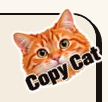
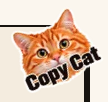
Refine Copy Cat overflow and border and repair copied-state checks

diff --git a/src/groups/copy/copy-read.test.ts b/src/groups/copy/copy-read.test.ts
@@ -21,11 +21,12 @@ function client(
   query.select.mockReturnValue(query);
   query.eq.mockReturnValue(query);
   const from = vi.fn().mockReturnValue(query);
+  const getUser = vi.fn().mockResolvedValue({ data: { user } });
   vi.mocked(createSupabaseServerClient).mockResolvedValue({
-    auth: { getUser: vi.fn().mockResolvedValue({ data: { user } }) },
+    auth: { getUser },
     from,
   } as never);
-  return { from, query };
+  return { from, query, getUser };
 }
 describe("loadOwnCopiedItemIds", () => {
   it("reads only the authenticated owner's copies of already-authorized source items", async () => {
@@ -51,5 +52,63 @@ describe("loadOwnCopiedItemIds", () => {
     const { from } = client({ id: "viewer" });
     expect(await loadOwnCopiedItemIds([])).toEqual(new Set());
     expect(from).not.toHaveBeenCalled();
+  });
+  it("batches unique authorized IDs into bounded requests and authenticates once", async () => {
+    const ids = Array.from(
+      { length: 101 },
+      (_, index) =>
+        `00000000-0000-4000-8000-${String(index).padStart(12, "0")}`,
+    );
+    const { query, getUser } = client({ id: "viewer" });
+    query.in
+      .mockResolvedValueOnce({
+        data: [{ copied_from_item_id: ids[0] }],
+        error: null,
+      })
+      .mockResolvedValueOnce({
+        data: [{ copied_from_item_id: ids[100] }],
+        error: null,
+      });
+    expect(await loadOwnCopiedItemIds([...ids, ...ids])).toEqual(
+      new Set([ids[0], ids[100]]),
+    );
+    expect(getUser).toHaveBeenCalledTimes(1);
+    expect(query.in).toHaveBeenCalledTimes(2);
+    expect(query.in).toHaveBeenNthCalledWith(
+      1,
+      "copied_from_item_id",
+      ids.slice(0, 100),
+    );
+    expect(query.in).toHaveBeenNthCalledWith(2, "copied_from_item_id", [
+      ids[100],
+    ]);
+    expect(query.eq).toHaveBeenNthCalledWith(1, "owner_id", "viewer");
+    expect(query.eq).toHaveBeenNthCalledWith(2, "owner_id", "viewer");
+  });
+  it("preserves confirmed batches on a partial failure and filters against each batch", async () => {
+    const ids = Array.from(
+      { length: 201 },
+      (_, index) =>
+        `00000000-0000-4000-8000-${String(index).padStart(12, "0")}`,
+    );
+    const { query } = client({ id: "viewer" });
+    query.in
+      .mockResolvedValueOnce({
+        data: [
+          { copied_from_item_id: ids[0] },
+          { copied_from_item_id: ids[100] },
+          { copied_from_item_id: foreign },
+        ],
+        error: null,
+      })
+      .mockResolvedValueOnce({ data: null, error: { message: "unavailable" } })
+      .mockResolvedValueOnce({
+        data: [{ copied_from_item_id: ids[200] }],
+        error: null,
+      });
+    expect(await loadOwnCopiedItemIds(ids)).toEqual(
+      new Set([ids[0], ids[200]]),
+    );
+    expect(query.in).toHaveBeenCalledTimes(3);
   });
 });

diff --git a/tests/e2e/group-copy-local.spec.ts b/tests/e2e/group-copy-local.spec.ts
@@ -125,7 +125,10 @@ test("a joined member copies a friend's item into their own wishlist", async ({
     await expect(card.getByRole("status")).toContainText(
       "Copied to your wishlist",
     );
-    await expect(copyButton).toBeDisabled();
+    await expect(copyButton).toHaveCount(0);
+    await expect(
+      card.getByRole("img", { name: "Copy Cat — copied to your wishlist" }),
+    ).toBeVisible();
 
     // --- the copied item appears in the copier's own wishlist --------------
     await page.goto("/wishlist");
@@ -146,24 +149,22 @@ test("a joined member copies a friend's item into their own wishlist", async ({
 
     // --- the already-copied state ------------------------------------------
     await page.goto(`/groups/${groupId}/members/${friendId}/wishlist`);
-    // The affordance is a real submit control: focusable with visible
-    // focus in the tab order (the activation mechanics are covered by the
-    // component tests).
-    const alreadyButton = card.getByTestId("copy-to-wishlist");
-    // Hydration may still be swapping the server-rendered node when the
-    // page settles; retry until the focus sticks.
-    await expect(async () => {
-      await alreadyButton.focus();
-      await expect(alreadyButton).toBeFocused();
-    }).toPass({ timeout: 15_000 });
-    await alreadyButton.click();
-    await expect(card.getByRole("status")).toContainText(
-      "Already in your wishlist",
-    );
-    await expect(alreadyButton).toBeEnabled();
+    // A current copy is a persistent confirmation, not a repeat-submit action.
+    const sticker = card.getByRole("img", {
+      name: "Copy Cat — copied to your wishlist",
+    });
+    await expect(sticker).toBeVisible();
+    await expect(card.getByTestId("copy-to-wishlist")).toHaveCount(0);
+    await page.reload();
+    await expect(sticker).toBeVisible();
+    await expect(card.getByTestId("copy-to-wishlist")).toHaveCount(0);
+    expect(
+      runStackSql(
+        `select count(*) from public.wishlist_items where owner_id='${copierId}'::uuid and copied_from_item_id=(select id from public.wishlist_items where owner_id='${friendId}'::uuid and title='Copy-test kettle');`,
+      ).trim(),
+    ).toBe("1");
 
-    // Accessible at the rendered state (populated friend wishlist with the
-    // copy affordance and the already-copied report).
+    // Keep the populated read-only confirmation accessible.
     const axe = await new AxeBuilder({ page }).analyze();
     expect(axe.violations).toEqual([]);
 

diff --git a/src/groups/copy/copy-read.ts b/src/groups/copy/copy-read.ts
@@ -12,19 +12,26 @@ export async function loadOwnCopiedItemIds(
     data: { user },
   } = await client.auth.getUser();
   if (!user) return new Set();
-  const { data, error } = await client
-    .from("wishlist_items")
-    .select("copied_from_item_id")
-    .eq("owner_id", user.id)
-    .in("copied_from_item_id", [...sourceItemIds]);
-  if (error || !Array.isArray(data)) return new Set();
-  const allowed = new Set(sourceItemIds);
-  return new Set(
-    data.flatMap((row) =>
-      typeof row.copied_from_item_id === "string" &&
-      allowed.has(row.copied_from_item_id)
-        ? [row.copied_from_item_id]
-        : [],
-    ),
-  );
+  // Bound PostgREST GET URLs so large wishlists do not hit the proxy's URI limit.
+  const sourceIds = [...new Set(sourceItemIds)];
+  const copied = new Set<string>();
+  for (let offset = 0; offset < sourceIds.length; offset += 100) {
+    const batch = sourceIds.slice(offset, offset + 100);
+    const { data, error } = await client
+      .from("wishlist_items")
+      .select("copied_from_item_id")
+      .eq("owner_id", user.id)
+      .in("copied_from_item_id", batch);
+    // An unavailable batch keeps its actions available without losing known copies.
+    if (error || !Array.isArray(data)) continue;
+    const allowed = new Set(batch);
+    for (const row of data) {
+      if (
+        typeof row.copied_from_item_id === "string" &&
+        allowed.has(row.copied_from_item_id)
+      )
+        copied.add(row.copied_from_item_id);
+    }
+  }
+  return copied;
 }

diff --git a/tests/e2e/interaction-polish-local.spec.ts b/tests/e2e/interaction-polish-local.spec.ts
@@ -856,7 +856,10 @@ test("member wishlist actions keep gifting private and confirm releases", async 
     expect(stickerBox.x + stickerBox.width).toBeGreaterThan(
       cardBox.x + cardBox.width,
     );
-    expect(stickerBox.y).toBeLessThan(cardBox.y);
+    expect(stickerBox.y).toBeLessThan(cardBox.y - 12);
+    expect(stickerBox.x + stickerBox.width).toBeGreaterThan(
+      cardBox.x + cardBox.width + 12,
+    );
     await expect(copied).toHaveCSS("rotate", "-25deg");
     await expect(
       card.getByRole("button", { name: "Copy to my wishlist" }),
@@ -864,6 +867,8 @@ test("member wishlist actions keep gifting private and confirm releases", async 
     await expect(
       card.getByRole("status").filter({ hasText: "Copied to your wishlist" }),
     ).toHaveClass("sr-only");
+    // Keep the sticky navigation at its normal top position in full-page proof.
+    await page.evaluate(() => window.scrollTo(0, 0));
     await capture(page, "wishlist-actions-copied-after");
     if (process.env.E2E_INTERACTION_EVIDENCE_DIR)
       await copied.screenshot({

diff --git a/src/groups/copy/copy-cat.tsx b/src/groups/copy/copy-cat.tsx
@@ -8,10 +8,10 @@ export function CopyCatSticker() {
       data-copy-cat
       role="img"
       aria-label="Copy Cat — copied to your wishlist"
-      className="pointer-events-none absolute top-0 right-0 z-10 flex h-18 w-21 -rotate-[25deg] items-center justify-center text-content-primary"
+      className="pointer-events-none absolute -top-3 -right-3 z-10 flex h-18 w-21 -rotate-[25deg] items-center justify-center text-content-primary"
     >
       <Image
-        src="/stickers/copy-cat-face.png"
+        src="/stickers/copy-cat-face-bold.png"
         alt=""
         aria-hidden="true"
         width={84}

diff --git a/src/wishlist/reorder-list.test.tsx b/src/wishlist/reorder-list.test.tsx
@@ -390,8 +390,8 @@ describe("WishlistItemsPanel", () => {
     );
     await user.click(screen.getByRole("button", { name: "Delete item" }));
 
-    expect(refresh).toHaveBeenCalledTimes(1);
-    expect(screen.getByRole("alert")).toHaveTextContent(
+    await waitFor(() => expect(refresh).toHaveBeenCalledTimes(1));
+    expect(await screen.findByRole("alert")).toHaveTextContent(
       "We couldn’t confirm whether the item was removed.",
     );
     expect(screen.getAllByRole("listitem")).toHaveLength(2);

diff --git a/DESIGN.md b/DESIGN.md
@@ -132,6 +132,6 @@ The user requested a preview of Reserve secretly and Copy to my wishlist side by
 
 The user approved the same quiet Original store link beside the group-card retailer/price; each opens the saved external source URL. On member views, Reserved by you uses the group's green image badge instead of a second status below the reactions. Available reserve/copy actions show a pointer; pending actions show a spinner and saving label with repeat submission disabled. A successful or already-present copy replaces the copy CTA with an original Copy Cat sticker and an accessible confirmation. This presentation persists from the viewer's current owner-scoped copied state on return visits. The sticker remains a noninteractive confirmation, not another action.
 
-Store-link copy uses Open on <saved retailer name> ↗ when the trimmed saved name is present, and Open link ↗ otherwise; no host-name guess is used as the link label. The external-link warning remains in the accessible name. The user revised the artwork to a realistic innocent cat face with straight bold Copy Cat lettering overflowing the lower face, integrated into the sticker. The transparent generated asset is public/stickers/copy-cat-face.png; no body or pointing paw remains.
+Store-link copy uses Open on <saved retailer name> ↗ when the trimmed saved name is present, and Open link ↗ otherwise; no host-name guess is used as the link label. The external-link warning remains in the accessible name. The user revised the artwork to a realistic innocent cat face with straight bold Copy Cat lettering overflowing the lower face, integrated into the sticker. The transparent generated asset is public/stickers/copy-cat-face-bold.png; no body or pointing paw remains.
 
-The final Copy Cat sticker sits at the card's top-right corner, rotated 25° counterclockwise and extending slightly past the right and top edges. Its white die-cut outline is doubled for contrast. It does not intercept clicks. Card images keep their rounded clipping while the sticker can overflow; the remaining reserve/release action uses the full row after copying. Mobile overflow must stay within the page gutter.
+The final Copy Cat sticker sits at the card's top-right corner, rotated 25° counterclockwise and extending slightly past the right and top edges. It is offset 12px above and right of the card corner, retaining the 25° left tilt. Its white die-cut outline is three times the previous approved outline for contrast. It does not intercept clicks. Card images keep their rounded clipping while the sticker can overflow; the remaining reserve/release action uses the full row after copying. Mobile overflow must stay within the page gutter.

diff --git a/docs/delivery/evidence/wishlist-gift-actions/final/README.md b/docs/delivery/evidence/wishlist-gift-actions/final/README.md
@@ -1,7 +1,7 @@
 # Final member-card refinement preview
 
-User-approved refinements: reserve/copy side by side at 48px; source links on group and member cards; green Reserved by you image badge; pointer and visible pending indicators; persistent copied state replaces the copy action with a realistic Copy Cat face sticker. Final sticker: top-right, 25° left tilt, slight top/right overflow, doubled white outline. The remaining reserve/release action fills the row.
+User-approved refinements: reserve/copy side by side at 48px; source links on group and member cards; green Reserved by you image badge; pointer and visible pending indicators; persistent copied state replaces the copy action with a realistic Copy Cat face sticker. Final sticker: top-right, 25° left tilt, 12px offset above/right with slight top/right overflow, 3× previous white outline. The remaining reserve/release action fills the row.
 
 Desktop 1440×1000 and mobile 390×844 screenshots use the same local fixture and states as the prior evidence. No visual baselines were replaced. Browser coverage checks reservation privacy, release confirmation, copy persistence on navigation/reload, independent viewer state, link target, cursor, action height, loaded artwork, corner overflow and accessible announcements.
 
-Artwork was generated and edited with the built-in imagegen tool. Selected transparent asset: public/stickers/copy-cat-face.png. Final edit prompt: preserve the realistic innocent cat face and straight Copy Cat lettering across its lower face; double the white die-cut outer outline; preserve transparency. Placement and tilt are applied in the card, independently of the artwork.
+Artwork was generated and edited with the built-in imagegen tool. Selected transparent asset: public/stickers/copy-cat-face-bold.png. Final edit prompt: preserve the realistic innocent cat face and straight Copy Cat lettering across its lower face; triple the current white die-cut outer outline; preserve transparency. Placement and tilt are applied in the card, independently of the artwork.
